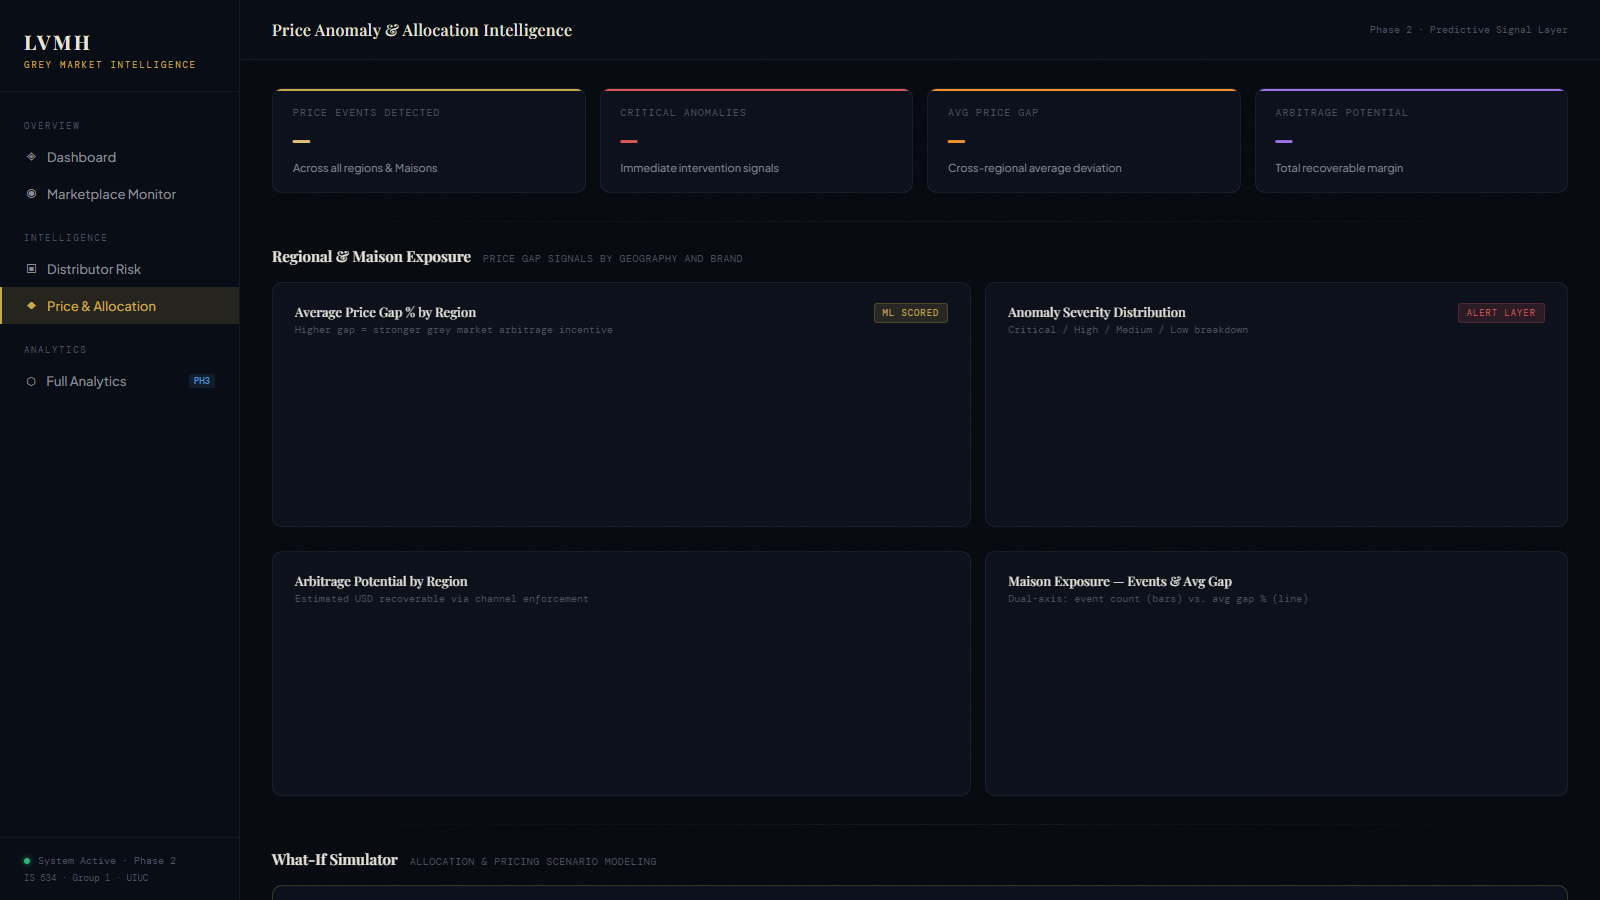
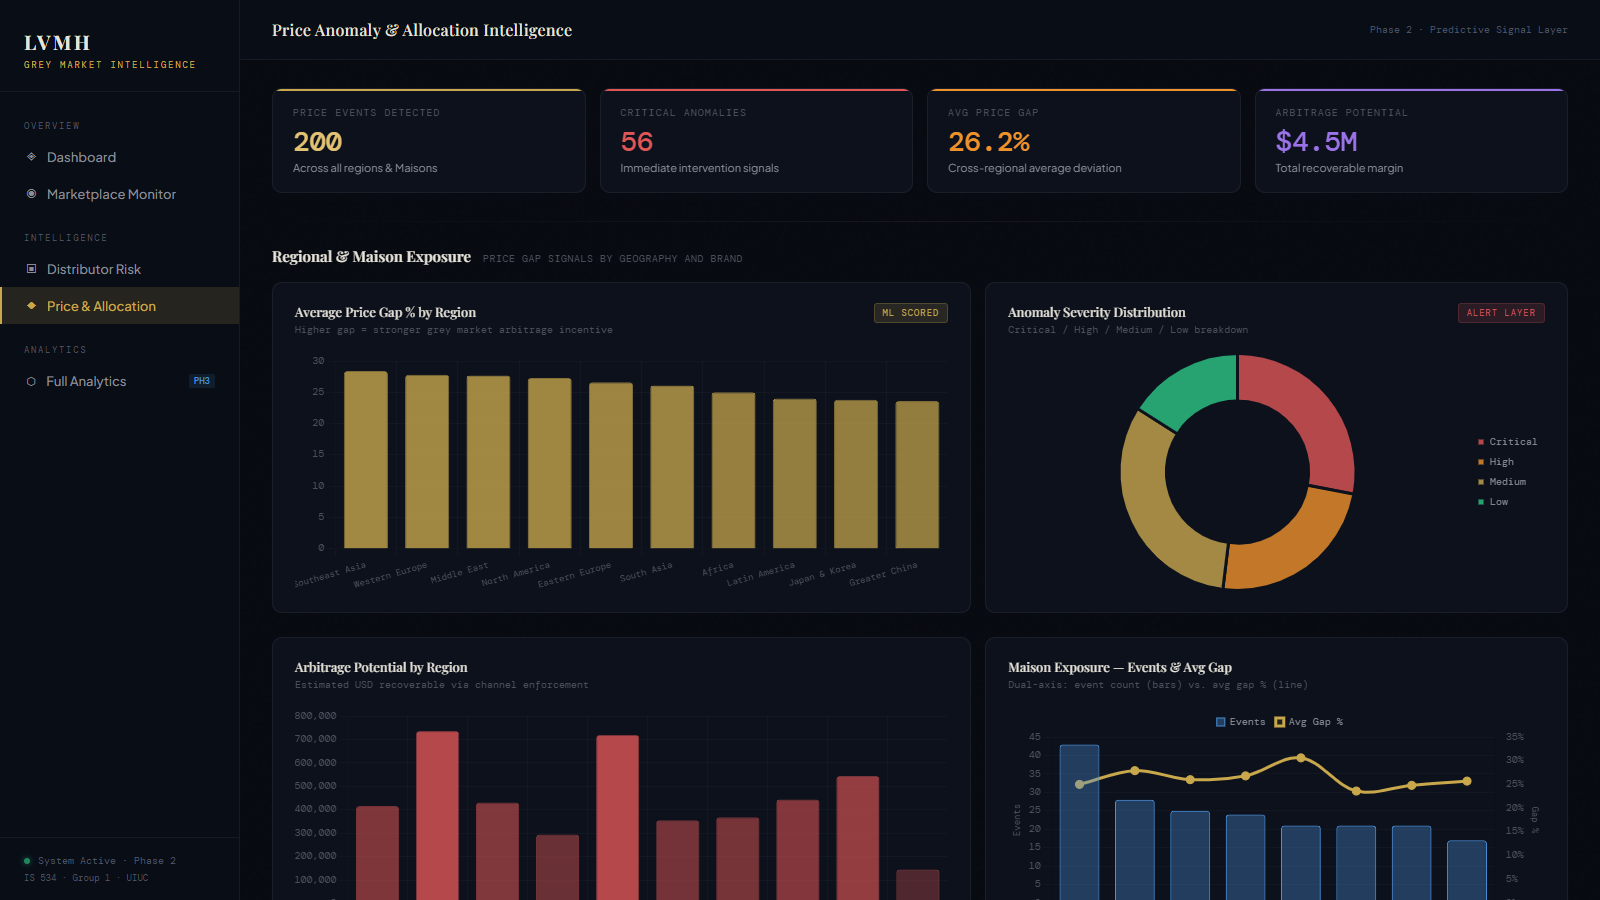
Fix analytics page rendering

diff --git a/templates/analytics.html b/templates/analytics.html
@@ -805,5 +805,6 @@ async function loadAllocationIntelligence() {
   });
 }
 
+</script>
 </body>
 </html>

diff --git a/docs/DEPLOYMENT.md b/docs/DEPLOYMENT.md
@@ -59,6 +59,7 @@ Python: 3.12.7
 After Render finishes deployment, open the public URL and test:
 
 ```text
+https://lvmh-grey-market-intelligence.onrender.com
 /
 /listings
 /distributors
@@ -67,6 +68,12 @@ After Render finishes deployment, open the public URL and test:
 ```
 
 Click `Run Scan` on the dashboard and confirm the scan panel updates.
+
+Current live URL:
+
+```text
+https://lvmh-grey-market-intelligence.onrender.com
+```
 
 ## 4. Add the Link to Your Portfolio
 